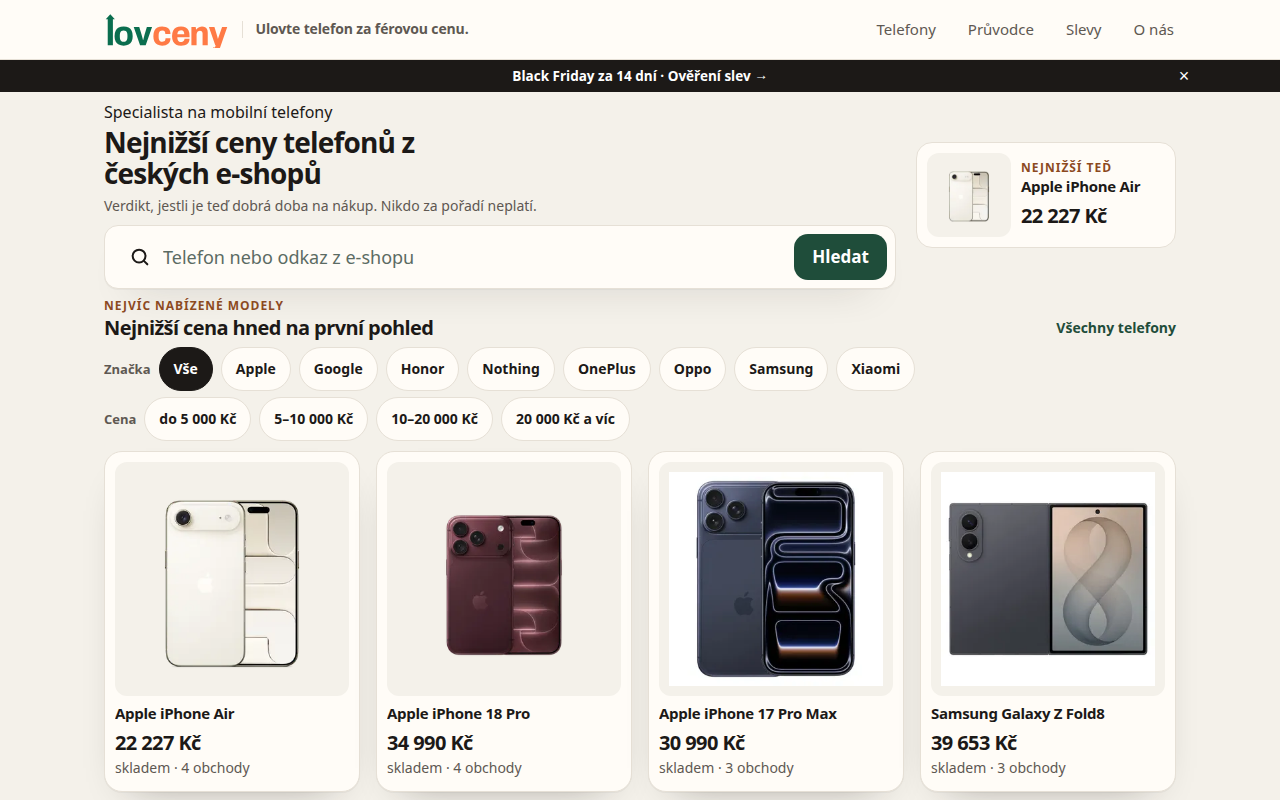
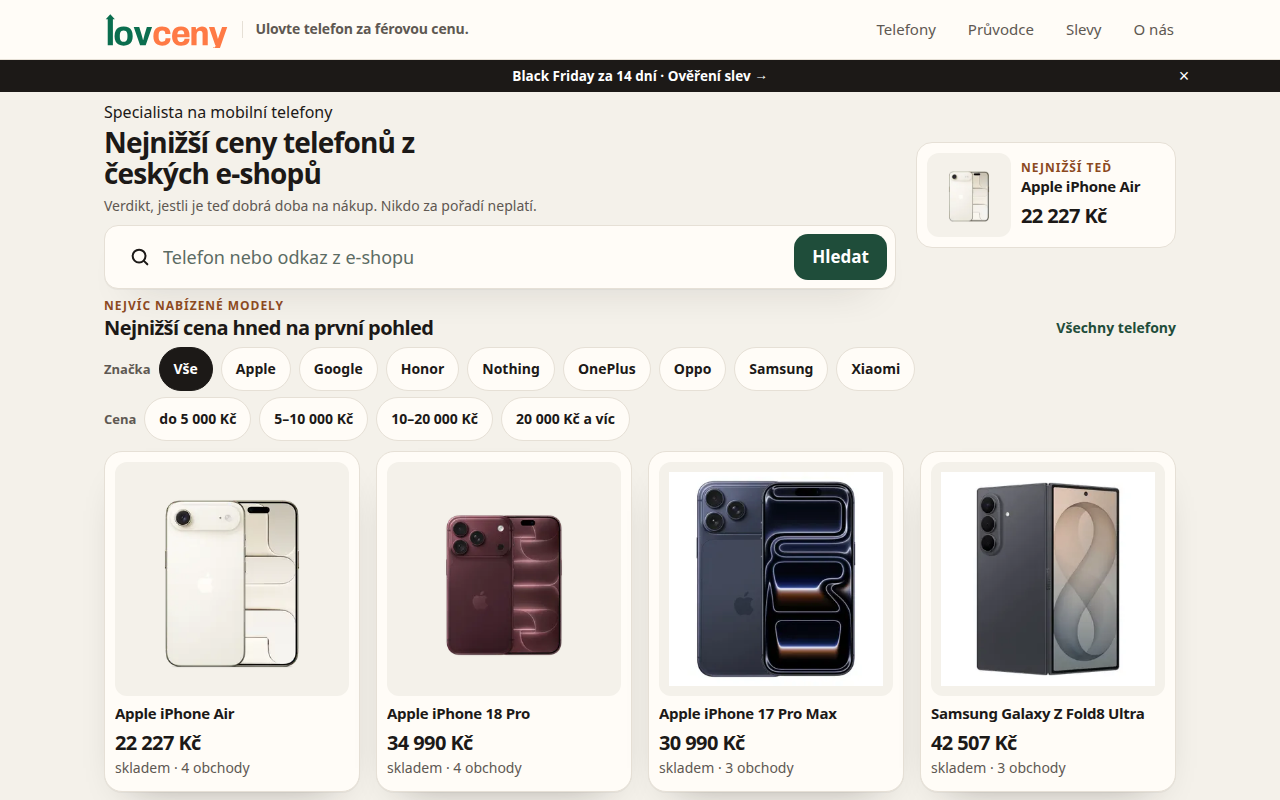
Do not claim a lowest price when two shops disagree by more than 35 percent.
Storage now comes from the full product name, so a 512 GB offer is not priced as 1 TB. A pair that still disagrees stays listed, without a lowest-price highlight.

Changed region(s): [[0.7188, 0.5938, 0.9062, 0.8438], [0.7188, 0.9062, 0.7812, 0.9375], [0.875, 0.875, 0.9062, 0.9062]]

diff --git a/lovceny/templates/phone_model.html b/lovceny/templates/phone_model.html
@@ -8,8 +8,12 @@
     <div class="model-buybox">
       {% if model.brand %}<p class="kicker">{{ model.brand }}</p>{% endif %}
       <h1>{{ model.name }}</h1>
-      <p class="model-price">{% if shown_price is not none %}{{ shown_price|czk }}{% else %}Cenu zjišťujeme{% endif %}</p>
+      <p class="model-price">{% if active_storage in model.disputed %}Cenu nepotvrzujeme{% elif shown_price is not none %}{{ shown_price|czk }}{% else %}Cenu zjišťujeme{% endif %}</p>
+      {% if active_storage in model.disputed %}
+      <p class="history-note">Dva obchody se u téhle kapacity liší o víc než 35 %. Nejnižší cenu uvedeme, až ji potvrdí třetí obchod nebo delší historie.</p>
+      {% else %}
       <p class="model-price-note">{% if buyable %}nejnižší cena skladem{% elif offers %}skladovou nabídku teď nemáme{% else %}nabídku teprve hledáme{% endif %}{% if offers %} · {{ cz_count(offers|map(attribute='shop')|unique|list|length, "obchod", "obchody", "obchodů") }}{% endif %}</p>
+      {% endif %}
       {% if verdict and verdict.code == 'none' %}
       <p class="history-note">Historie ceny se právě tvoří. Doporučení Kupuj nebo Počkej ukážeme po 7 dnech měření.</p>
       {% elif verdict %}
@@ -19,8 +23,8 @@
       <div class="storage-row" aria-label="Úložiště">
         {% for deal in storage_deals %}
         <a class="storage-chip{% if active_storage == deal.label %} is-on{% endif %}" href="/telefon/{{ model.slug }}?pamet={{ deal.label|urlencode }}{% if color %}&barva={{ color|urlencode }}{% endif %}"{% if active_storage == deal.label %} aria-current="true"{% endif %}>
-          <b>{{ deal.label }}</b>
-          <span>{{ deal.price|czk }}{% if not deal.in_stock %} · není skladem{% endif %}</span>
+        <b>{{ deal.label }}</b>
+        <span>{% if deal.unconfirmed %}nepotvrzeno{% else %}{{ deal.price|czk }}{% if not deal.in_stock %} · není skladem{% endif %}{% endif %}</span>
         </a>
         {% endfor %}
       </div>
@@ -30,7 +34,7 @@
         {% for row in offer_rows[:3] %}
         {% set offer = row.offer %}
         {% set shop = get_shop(offer.shop) %}
-        <li class="{% if loop.first and offer.in_stock is not false %}is-best{% endif %}">
+        <li class="{% if loop.first and offer.in_stock is not false and active_storage not in model.disputed %}is-best{% endif %}">
           <span class="offer-shop">{{ shop.name if shop else offer.shop }}{% if row.color %} <span class="offer-color">{{ row.color }}</span>{% endif %}</span>
           <span class="offer-price">{{ offer.price|czk }}</span>
           {% if offer.in_stock is false %}

diff --git a/lovceny/phones.py b/lovceny/phones.py
@@ -85,6 +85,7 @@ class PhoneModel:
     in_stock: bool = False
     shops: int = 0
     image: str | None = None
+    disputed: set[str] = field(default_factory=set)
 
     @property
     def storages(self) -> list[str]:
@@ -128,12 +129,13 @@ def storage_deals(model: PhoneModel) -> list[dict]:
         winner = min(pool, key=lambda offer: float(offer.price))
         price = float(winner.price)
         current = best.get(label)
-        if current is None or price < current["price"]:
+        if current is None or (current["price"] is not None and price < current["price"]):
             best[label] = {
                 "label": label,
-                "price": price,
+                "price": None if label in model.disputed else price,
                 "in_stock": bool(buyable),
                 "product_id": product.id,
+                "unconfirmed": label in model.disputed,
             }
     rows = sorted(best.values(), key=lambda row: _storage_sort_key(row["label"]))
     large = [row for row in rows if _storage_sort_key(row["label"]) >= 32]
@@ -142,8 +144,17 @@ def storage_deals(model: PhoneModel) -> list[dict]:
 
 def anchor_product(model: PhoneModel) -> Product | None:
     """Varianta, kterou bereme do srovnání: nejlevnější skladem, jinak nejlevnější vůbec."""
-    buyable = [offer for offer in model.offers if offer_is_buyable(offer)]
-    pool = buyable or list(model.offers)
+    usable = []
+    for offer in model.offers:
+        label = ""
+        for product in model.products:
+            if product.id == offer.product_id:
+                label = storage_label(product.name or "") or ""
+                break
+        if label not in model.disputed:
+            usable.append(offer)
+    buyable = [offer for offer in usable if offer_is_buyable(offer)]
+    pool = buyable or usable or list(model.offers)
     if not pool:
         return model.products[0] if model.products else None
     winner = min(pool, key=lambda offer: float(offer.price))
@@ -252,6 +263,7 @@ _EXTRA_COLOR = {
     "kosmicka", "temne", "temny", "mlhove", "mlhovy", "oblacne", "oblacny",
     "svetle", "svetly", "starlit", "ice", "denim", "velvet", "sprout", "meteor",
     "golden", "sporting", "bright", "blackened", "sage", "jet",
+    "krem", "grafit",
 }
 
 
@@ -295,7 +307,7 @@ def _model_name(names: list[str]) -> str:
         noise = {
             "mah", "ip68", "esim", "lte", "nfc", "distribuce", "5g", "usb",
             "android", "hybridni", "dual", "ds", "hz", "typu", "cm", "mhz",
-            "chytry", "chytra",
+            "chytry", "chytra", "sim",
         }
         while index < len(words):
             raw_word = words[index]
@@ -427,42 +439,44 @@ def _fix_casing(text: str) -> str:
     return " ".join(out)
 
 
-def credible_offers(products: list[Product], offers: list[Offer]) -> list[Offer]:
-    """Veřejná cena. Jiná kapacita se sem nedostane — volající už filtruje.
+def price_trust(products: list[Product], offers: list[Offer]) -> tuple[list[Offer], set[str]]:
+    """Které nabídky smějí tvořit veřejnou nejnižší cenu, a které kapacity ne.
 
-    V rámci jedné kapacity schováme obchod, který je o víc než 35 % pod mediánem
-    ostatních, když jsou ostatní aspoň dva. Řádek v databázi zůstane.
+    Jiná kapacita se do stejné skupiny nedostane. Obchod o víc než 35 % pod
+    mediánem aspoň dvou dalších schováme. Když jsou obchody jen dva a liší se
+    o víc než 35 %, nejnižší cenu té kapacity neuvádíme. Řádky v databázi zůstávají.
     """
     from statistics import median
-    by_storage: dict[str, list[Offer]] = {}
     product_storage = {product.id: storage_label(product.name or "") or "" for product in products}
+    by_storage: dict[str, list[Offer]] = {}
     for offer in offers:
         by_storage.setdefault(product_storage.get(offer.product_id, ""), []).append(offer)
-    flagged: set[str] = set()
-    for group in by_storage.values():
+    hidden: set[tuple[str, str]] = set()
+    disputed: set[str] = set()
+    for storage, group in by_storage.items():
         shop_price: dict[str, float] = {}
         for offer in group:
             price = float(offer.price)
             current = shop_price.get(offer.shop)
             if current is None or price < current:
                 shop_price[offer.shop] = price
+        if len(shop_price) == 2 and storage:
+            low, high = sorted(shop_price.values())
+            if high > 0 and low < high * 0.65:
+                disputed.add(storage)
+            continue
         if len(shop_price) < 3:
             continue
         for shop, price in shop_price.items():
             others = [other for name, other in shop_price.items() if name != shop]
-            if len(others) < 2:
-                continue
             mid = float(median(others))
             if mid > 0 and price < mid * 0.65:
-                flagged.add(f"{product_storage.get(group[0].product_id, '')}|{shop}")
-    if not flagged:
-        return list(offers)
-    kept = []
-    for offer in offers:
-        key = f"{product_storage.get(offer.product_id, '')}|{offer.shop}"
-        if key not in flagged:
-            kept.append(offer)
-    return kept
+                hidden.add((storage, shop))
+    shown = [
+        offer for offer in offers
+        if (product_storage.get(offer.product_id, ""), offer.shop) not in hidden
+    ]
+    return shown, disputed
 
 
 def _visible_offers(product: Product) -> list[Offer]:
@@ -500,12 +514,18 @@ def group_phones(products: list[Product]) -> list[PhoneModel]:
             slug = f"{slug}-{group[0].id}"
         used_slugs.add(slug)
         offers: list[Offer] = []
+        from .offer_trust import offer_mismatches_product
         for product in group:
-            offers.extend(_visible_offers(product))
-        offers = credible_offers(group, offers)
-        buyable = [offer for offer in offers if offer_is_buyable(offer)]
-        priced = buyable or offers
-        lowest = min((float(offer.price) for offer in priced), default=None)
+            for offer in _visible_offers(product):
+                if offer_mismatches_product(offer, product):
+                    continue
+                offers.append(offer)
+        offers, disputed = price_trust(group, offers)
+        product_storage = {product.id: storage_label(product.name or "") or "" for product in group}
+        priced = [offer for offer in offers if product_storage.get(offer.product_id, "") not in disputed]
+        buyable = [offer for offer in priced if offer_is_buyable(offer)]
+        pool = buyable or priced
+        lowest = min((float(offer.price) for offer in pool), default=None)
         image = next((product.image_url for product in group if product.image_url), None)
         brand = next((guess_brand(product.name or "") for product in group if guess_brand(product.name or "")), None)
         if brand is None and any("iphone" in (product.name or "").casefold() for product in group):
@@ -523,6 +543,7 @@ def group_phones(products: list[Product]) -> list[PhoneModel]:
             in_stock=bool(buyable),
             shops=len({offer.shop for offer in offers}),
             image=image,
+            disputed=disputed,
         ))
     models.sort(key=lambda model: (-model.shops, model.lowest if model.lowest is not None else 10**12, model.name.casefold()))
     return models

diff --git a/tests/test_phones.py b/tests/test_phones.py
@@ -40,7 +40,7 @@ def test_same_storage_only_and_a_far_outlier_stays_out_of_the_price():
     init_db()
     db = SessionLocal()
     try:
-        from lovceny.phones import _fix_casing, _model_name, credible_offers
+        from lovceny.phones import _fix_casing, _model_name, price_trust
         assert _model_name(["Samsung Galaxy Z FOLD8 256GB černá"]) == "Samsung Galaxy Z Fold8"
         assert _fix_casing("iPhone 16 Pro Max FE 5G") == "iPhone 16 Pro Max FE 5G"
         cheap = _phone(db, "Apple iPhone Air 256GB černá", 10000, shop="tera", slug="air-tera")
@@ -51,9 +51,23 @@ def test_same_storage_only_and_a_far_outlier_stays_out_of_the_price():
         assert model.name == "Apple iPhone Air"
         assert model.lowest == 32000
         assert "tera" not in {offer.shop for offer in model.offers if offer.product_id == cheap.id}
-        kept = credible_offers(model.products, [offer for product in model.products for offer in product.offers])
+        kept, disputed = price_trust(model.products, [offer for product in model.products for offer in product.offers])
         assert cheap.offers[0].id not in {offer.id for offer in kept}
+        assert "256 GB" not in disputed
         assert any(offer.shop == "istyle" for offer in kept)
+    finally:
+        db.close()
+
+
+def test_two_shops_far_apart_do_not_claim_a_lowest_price():
+    init_db()
+    db = SessionLocal()
+    try:
+        _phone(db, "Samsung Galaxy Z Fold8 512GB krémová", 39653, shop="xm", slug="fold-xm")
+        _phone(db, "Samsung Galaxy Z Fold8 512GB krémová", 73368, shop="xupe", slug="fold-xupe")
+        model = group_phones(db.query(Product).all())[0]
+        assert "512 GB" in model.disputed
+        assert model.lowest is None
     finally:
         db.close()
 

diff --git a/lovceny/main.py b/lovceny/main.py
@@ -472,13 +472,21 @@ def phone_model_page(request: Request, slug: str, pamet: str = "", barva: str = 
         raise HTTPException(404)
     storage_query = pamet.strip()
     if not storage_query:
-        pool = [offer for offer in model.offers if offer_is_buyable(offer)] or list(model.offers)
+        def _label(offer) -> str:
+            for product in model.products:
+                if product.id == offer.product_id:
+                    return storage_label(product.name or "") or ""
+            return ""
+        confirmed = [
+            offer for offer in model.offers
+            if _label(offer) not in model.disputed and offer_is_buyable(offer)
+        ] or [
+            offer for offer in model.offers if _label(offer) not in model.disputed
+        ]
+        pool = confirmed or [offer for offer in model.offers if offer_is_buyable(offer)] or list(model.offers)
         if pool:
             cheapest = min(pool, key=lambda offer: float(offer.price))
-            for product in model.products:
-                if product.id == cheapest.product_id:
-                    storage_query = storage_label(product.name or "") or ""
-                    break
+            storage_query = _label(cheapest)
     products = select_variant(model, storage=storage_query, color=barva.strip())
     product_ids = {product.id for product in products}
     offers = [offer for offer in model.offers if offer.product_id in product_ids]
